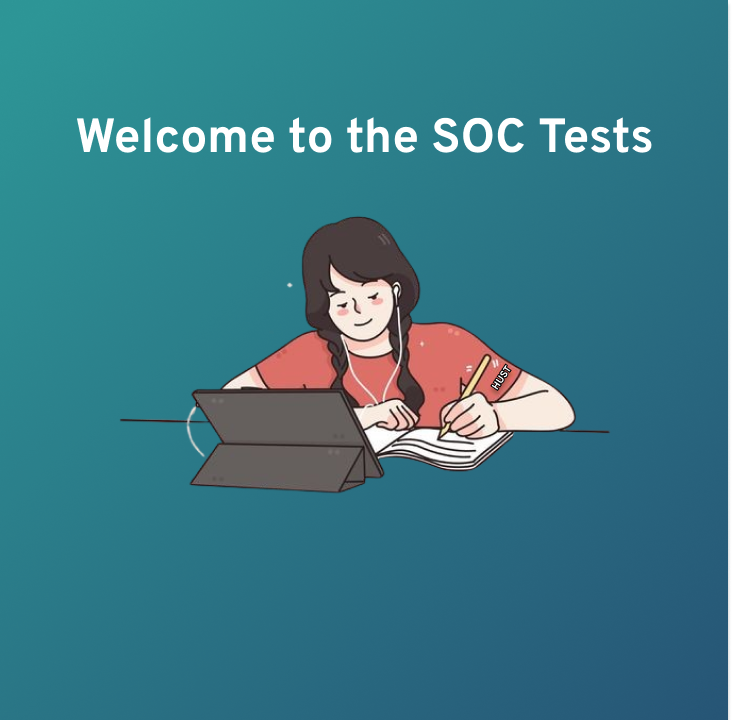
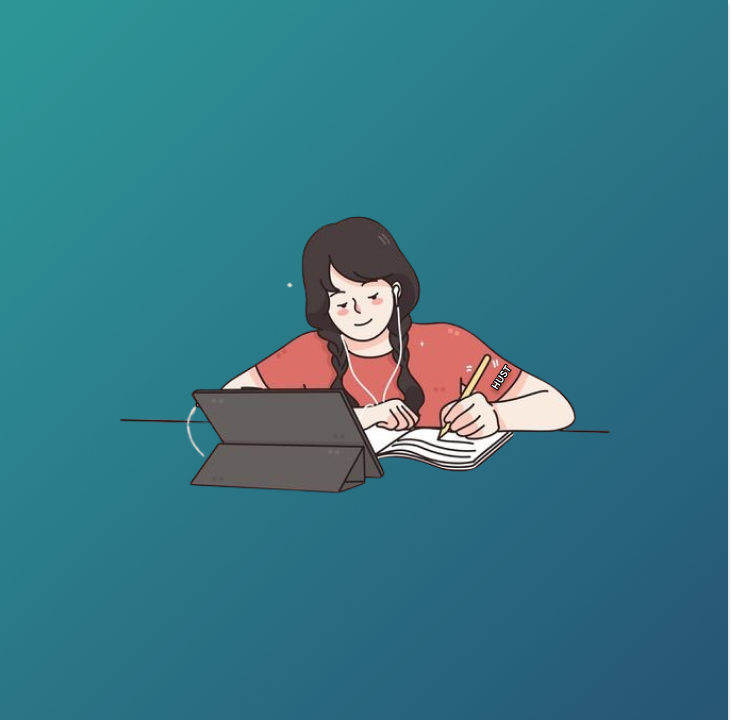
create admin

Changed region(s): [[0.0902, 0.1528, 0.9016, 0.2139], [0.6612, 0.5194, 0.6913, 0.55]]

diff --git a/src/pages/admin/ListMembers.jsx b/src/pages/admin/ListMembers.jsx
@@ -1,0 +1,270 @@
+import { Table, Input, Button, Tabs, Typography } from 'antd';
+import { DeleteOutlined } from '@ant-design/icons';
+import { useEffect, useState } from 'react';
+import { useLocation, useNavigate } from 'react-router';
+import { getListMembers, deleteMember } from '../../requests/admin/admin-members.request';
+import { parse, stringify } from 'qs';
+import { roles } from '../../constants';
+
+export function ListMembers() {
+    const [loading, setLoading] = useState(false);
+    const [data, setData] = useState({});
+    const [query, setQuery] = useState({ take: 10, skip: 0 });
+
+    const navigate = useNavigate();
+    const location = useLocation();
+
+    const getData = async () => {
+        try {
+            setLoading(true);
+
+            const query = {
+                take: 10,
+                skip: 0,
+                role: 1,
+                ...(parse(location.search.slice(1)) || {}),
+            };
+            for (const key in query) {
+                if (!['search', 'take', 'skip', 'role'].includes(key)) {
+                    delete query[key];
+                }
+            }
+            query.take = Number(query.take);
+            query.skip = Number(query.skip);
+
+            setQuery(query);
+
+            const data = await getListMembers(query);
+            setData(data);
+        } catch (e) {
+            //
+        } finally {
+            setLoading(false);
+        }
+    };
+
+    useEffect(() => {
+        getData();
+    }, [location.search]);
+
+    const handleNavigate = (newQuery) => {
+        newQuery = {
+            ...query,
+            ...newQuery,
+        };
+        navigate({ search: stringify(newQuery) });
+    };
+
+    //search member
+    const handleSearch = (search) => {
+        handleNavigate({ search, skip: 0 });
+    };
+
+    const handleChangeTab = (role) => {
+        handleNavigate({ role, skip: 0 });
+    };
+
+    const handlePageChange = (page, pageSize) => {
+        handleNavigate({ take: pageSize, skip: (page - 1) * pageSize });
+    };
+
+    const handleDelete = async (id) => {
+        try {
+            setLoading(true);
+            await deleteMember(id);
+            await getData();
+        } catch (e) {
+            console.error(e);
+        } finally {
+            setLoading(false);
+        }
+    };
+
+    //for table teacher
+    let columns = [
+        {
+            title: 'STT',
+            dataIndex: 'number',
+            width: '5%',
+            key: 'number',
+            align: 'center',
+            ellipsis: true,
+            render: (text, record, index) => <>{index + 1 + query.skip}</>,
+        },
+        {
+            title: 'Email',
+            dataIndex: 'email',
+            width: '25%',
+            key: 'userEmail',
+            ellipsis: true,
+        },
+        {
+            title: 'Family Name',
+            dataIndex: 'familyName',
+            width: '15%',
+            key: 'familyName',
+            className: 'nowrap',
+        },
+        {
+            title: 'Given Name',
+            dataIndex: 'givenName',
+            width: '15%',
+            key: 'givenName',
+            className: 'nowrap',
+        },
+        {
+            title: 'Mobile',
+            dataIndex: 'mobile',
+            width: '15%',
+            key: 'mobile',
+            className: 'nowrap',
+        },
+        {
+            title: 'Role',
+            dataIndex: 'role',
+            width: '10%',
+            key: 'role',
+            className: 'nowrap',
+            render: (_, record) => <Typography>{roles[record.role]}</Typography>,
+        },
+
+        {
+            key: 'action',
+            title: 'Action',
+            dataIndex: 'action',
+            className: '!p-0',
+            width: '15%',
+            render: (_, record) => <Button onClick={() => handleDelete(record.id)} icon={<DeleteOutlined />}></Button>,
+            align: 'center',
+        },
+    ];
+
+    const TableComponent = () => {
+        return (
+            <Table
+                columns={columns}
+                dataSource={data.records ?? []}
+                rowKey={(record) => record.id}
+                bordered={true}
+                loading={loading}
+                scroll={{ x: true }}
+                pagination={{
+                    current: query.skip / query.take + 1,
+                    pageSize: query.take,
+                    total: data.total,
+                    showSizeChanger: true,
+                    onChange: handlePageChange,
+                }}
+            />
+        );
+    };
+
+    //for table student
+    let columns2 = [
+        {
+            title: 'STT',
+            dataIndex: 'number',
+            width: '5%',
+            key: 'number',
+            align: 'center',
+            ellipsis: true,
+            render: (text, record, index) => <>{index + 1 + query.skip}</>,
+        },
+        {
+            title: 'Email',
+            dataIndex: 'email',
+            width: '25%',
+            key: 'userEmail',
+            ellipsis: true,
+        },
+        {
+            title: 'Student Number',
+            dataIndex: 'studentNumber',
+            width: '10%',
+            key: 'studentNumber',
+            className: 'nowrap',
+        },
+        {
+            title: 'Family Name',
+            dataIndex: 'familyName',
+            width: '15%',
+            key: 'familyName',
+            className: 'nowrap',
+        },
+        {
+            title: 'Given Name',
+            dataIndex: 'givenName',
+            width: '15%',
+            key: 'givenName',
+            className: 'nowrap',
+        },
+        {
+            title: 'Mobile',
+            dataIndex: 'mobile',
+            width: '15%',
+            key: 'mobile',
+            className: 'nowrap',
+        },
+
+        {
+            key: 'action',
+            title: 'Action',
+            dataIndex: 'action',
+            className: '!p-0',
+            width: '15%',
+            render: (_, record) => <Button onClick={() => handleDelete(record.id)} icon={<DeleteOutlined />}></Button>,
+            align: 'center',
+        },
+    ];
+
+    const TableComponent2 = () => {
+        return (
+            <Table
+                columns={columns2}
+                dataSource={data.records?.filter((item) => +item.role === 2)}
+                rowKey={(record) => record.id}
+                bordered={true}
+                loading={loading}
+                scroll={{ x: true }}
+                pagination={{
+                    current: query.skip / query.take + 1,
+                    pageSize: query.take,
+                    total: data.total,
+                    showSizeChanger: true,
+                    onChange: handlePageChange,
+                }}
+            />
+        );
+    };
+
+    const tabItems = [
+        {
+            key: 1,
+            label: 'Giảng viên',
+            children: <TableComponent />,
+        },
+        {
+            key: 2,
+            label: 'Sinh viên',
+            children: <TableComponent2 />,
+        },
+    ];
+
+    return (
+        <section className="relative">
+            <div className="flex justify-between flex-col md:flex-row items-center flex-wrap mb-4">
+                <h1 className="text-center text-md md:text-4xl text-blue-900">DANH SÁCH NGƯỜI DÙNG</h1>
+                <div className="flex space-x-2">
+                    <Input.Search
+                        size="default"
+                        placeholder="Tìm kiếm người dùng"
+                        enterButton
+                        onSearch={(value) => handleSearch(value)}
+                        allowClear
+                    />
+                </div>
+            </div>
+            <Tabs defaultActiveKey={0} onChange={handleChangeTab} destroyInactiveTabPane items={tabItems} />
+        </section>
+    );
+}

diff --git a/src/pages/index.jsx b/src/pages/index.jsx
@@ -25,6 +25,7 @@ import { DoQuiz } from './student/quiz/DoQuiz.jsx';
 import { CreateQuiz } from './teacher/class/class-details/quizzes/CreateQuizz.jsx';
 import { JoinClass } from './student/class/JoinClass.jsx';
 import { stringify } from 'qs';
+import { ListMembers } from './admin/ListMembers.jsx';
 
 const ProtectedRoute = ({ role, redirectPath, children }) => {
     const user = useSelector((state) => state.user);
@@ -52,6 +53,8 @@ const HomeNavigate = () => {
 
     if (user?.role === 1) return <Navigate to="/teacher/classes" />;
     if (user?.role === 2) return <Navigate to="/student/classes" />;
+    if (user?.role === 3) return <Navigate to="/admin/members" />;
+
     return <Navigate to="/auth/login" />;
 };
 
@@ -147,6 +150,19 @@ export const AppRoutes = () => {
                 <Route path="/student/classes/:id" element={<ClassDetailStudent />} />
                 <Route path="/student/classes/:id/:tab" element={<ClassDetailStudent />} />
                 <Route path="/student/quizzes/:id" element={<DoQuiz />} />
+            </Route>
+
+            {/* Admins routes */}
+            <Route
+                element={
+                    <ProtectedRoute role={3} redirectPath="/auth/login">
+                        <AppLayout>
+                            <Outlet />
+                        </AppLayout>
+                    </ProtectedRoute>
+                }
+            >
+                <Route path="admin/members" element={<ListMembers />} />
             </Route>
         </Routes>
     );

diff --git a/src/pages/teacher/class/class-details/ClassDetail.jsx b/src/pages/teacher/class/class-details/ClassDetail.jsx
@@ -75,10 +75,6 @@ export function ClassDetail() {
             {/* Header */}
             <div className="flex items-center justify-between">
                 <h3 className="md:text-4xl text-blue-900 ">{classInfo.name}</h3>
-                <a onClick={showQrCode} className="whitespace-nowrap">
-                    Mã QR tham gia
-                    <BsQrCode className="ml-2" />
-                </a>
             </div>
             {/* Content */}
             <div className="flex-1 flex px-6 pb-6 mt-2 bg-white rounded form-shadow shadow-md">
@@ -94,7 +90,7 @@ export function ClassDetail() {
             <Modal
                 className="qr-modal top-[10vh] "
                 open={openQrModal}
-                title="Tham gia lớp bằng mã QR"
+                title="Tham gia lớp bằng "
                 width="fit-content"
                 closable
                 onCancel={closeQrCode}

diff --git a/src/pages/auth/Register.jsx b/src/pages/auth/Register.jsx
@@ -53,6 +53,12 @@ export const Register = () => {
                 <div className="w-1/2 md:block  hidden relative">
                     <img src={registerLogo} className="w-full block object-cover" />
 
+                    <div className="absolute inset-0 flex justify-center items-start">
+                        <div className="text-right mt-24">
+                            <h1 className="text-white text-5xl">Welcome to the SOC Tests &nbsp;</h1>
+                        </div>
+                    </div>
+
                     <div className="absolute inset-0 flex justify-center items-end">
                         <div className="text-right mt-4">
                             <p className="text-white mb-16">

diff --git a/src/pages/auth/Login.jsx b/src/pages/auth/Login.jsx
@@ -46,6 +46,12 @@ export const LoginPage = () => {
                 <div className="w-1/2 md:block  hidden relative">
                     <img src={loginLogo} className="w-full block object-cover" />
 
+                    <div className="absolute inset-0 flex justify-center items-start">
+                        <div className="text-right mt-24">
+                            <h1 className="text-white text-5xl">Welcome to the SOC Tests &nbsp;</h1>
+                        </div>
+                    </div>
+
                     <div className="absolute inset-0 flex justify-center items-end">
                         <div className="text-right mt-4">
                             <p className="text-white mb-16">

diff --git a/src/pages/profile/MenuOptions.jsx b/src/pages/profile/MenuOptions.jsx
@@ -27,11 +27,11 @@ function MenuOptions({ option, setOption }) {
                         else navigate('/student/classes');
                     }}
                 />
-                <img
+                {/* <img
                     src="https://ik.imagekit.io/bgcofslc/wp-content/uploads/2022/09/AAtten_Logo.png"
                     className="relative w-full h-25 sm:object-cover object-contain shadow-bottom"
                     style={{ zIndex: -1 }}
-                ></img>
+                ></img> */}
             </div>
             <div className="text-center ">
                 <img

diff --git a/src/pages/student/quiz/DoQuiz.jsx b/src/pages/student/quiz/DoQuiz.jsx
@@ -42,7 +42,7 @@ export function DoQuiz() {
     if (!quiz) {
         return (
             <div className="flex-1 flex flex-col space-y-4 justify-center items-center">
-                <p>Quiz đã đóng</p>
+                <p></p>
                 <Button onClick={handleBack} type="primary">
                     Quay lại
                 </Button>

diff --git a/src/requests/admin/admin-members.request.js b/src/requests/admin/admin-members.request.js
@@ -1,0 +1,11 @@
+import { api } from '../../utils/api.util.js';
+
+export const getListMembers = async (params) => {
+    const { data } = await api.get(`/admin/members/users`, { params });
+    return data;
+};
+
+export const deleteMember = async (id) => {
+    const { data } = await api.delete(`/admin/members/${id}`);
+    return data;
+};

diff --git a/src/constants/index.js b/src/constants/index.js
@@ -1,0 +1,5 @@
+export const roles = {
+    1: 'Giảng viên',
+    2: 'Sinh viên',
+    3: 'Admin',
+};
